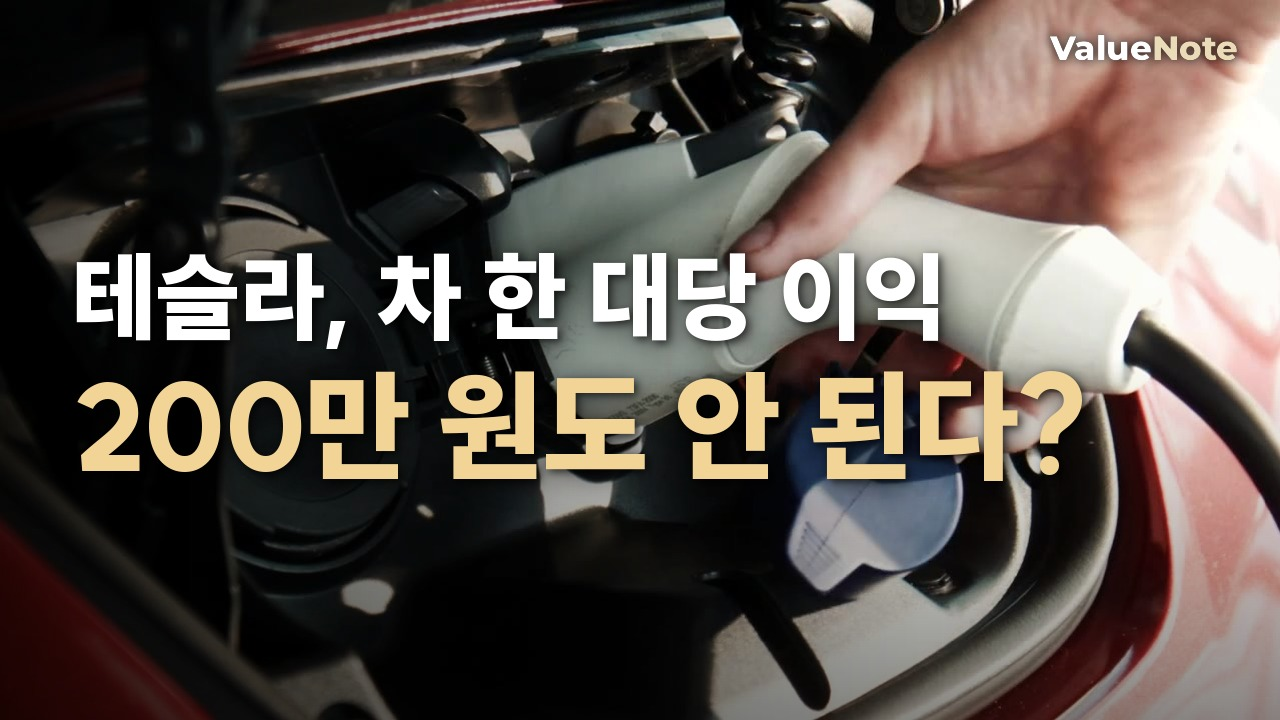
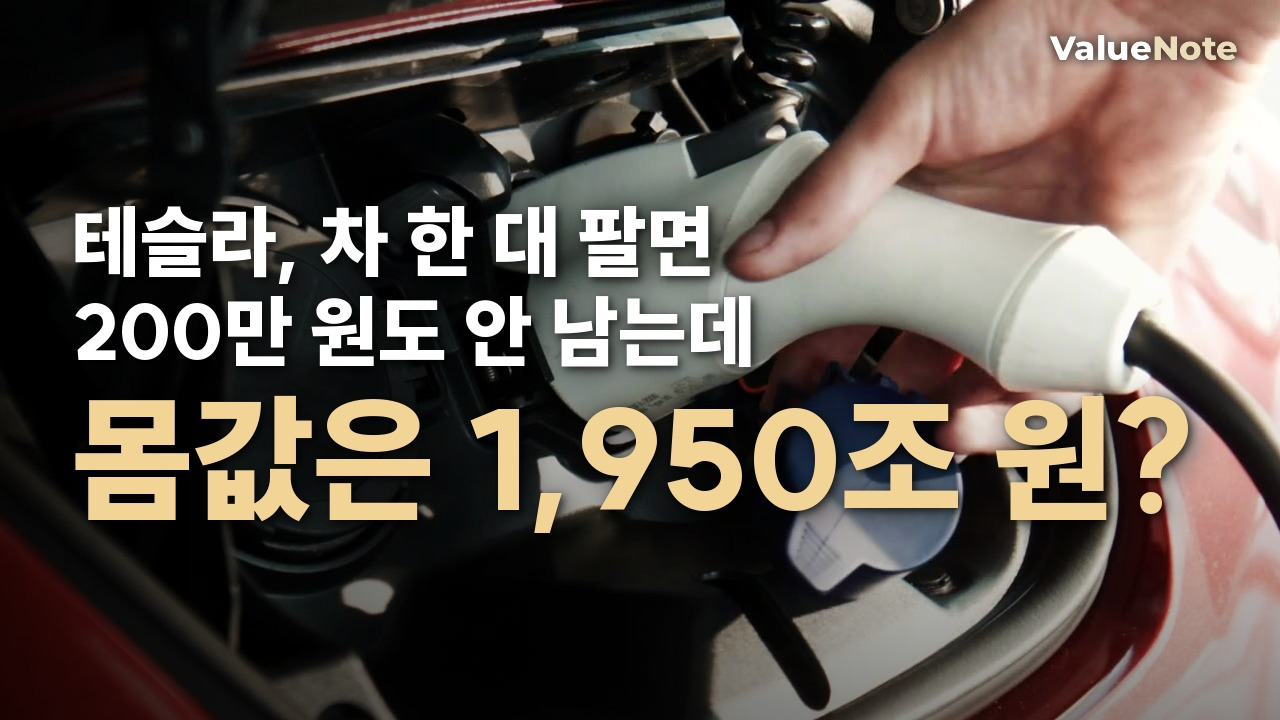
테슬라 롱폼 썸네일: '테슬라, 차 한 대 팔면 / 200만 원도 안 남는데 / 몸값은 1,950조 원?' (하이닉스와 같은 글자 크기 비율, 흰 줄 두 줄 지원) [skip ci]
Claude-Session: https://claude.ai/code/session_018zXS2w3PbRSRRZ3YsXeBVu

Changed region(s): [[0.0312, 0.275, 0.9375, 0.7333]]

diff --git a/scripts/youtube/long/render2.py b/scripts/youtube/long/render2.py
@@ -1009,7 +1009,7 @@ def make_thumb(spec, V, out):
     th = Image.alpha_composite(th, sh2); d = ImageDraw.Draw(th)
     l1, l2 = fill(tv["l1"], V), fill(tv["l2"], V); maxw = TW - 120
     f1 = F("Heavy", 112)
-    while d.textlength(l1, font=f1) > maxw: f1 = F("Heavy", f1.size - 4)
+    while max(d.textlength(r, font=f1) for r in l1.split("\n")) > maxw: f1 = F("Heavy", f1.size - 4)
     f2 = F("Heavy", 190)
     while d.textlength(l2, font=f2) > maxw: f2 = F("Heavy", f2.size - 6)
     pos = tv.get("pos", "top")   # 2026-10-22 운영자: 테두리 없이 그림자만 (예시: '얼마 벌고 얼마 쓸까'). center = 회사 로고 + 두 줄을 가운데에
@@ -1021,7 +1021,9 @@ def make_thumb(spec, V, out):
             lh = tv.get("logo_h", 100); cl = Image.open(co).convert("RGBA"); sc2 = lh / cl.height; cl = cl.resize((int(cl.width * sc2), lh), Image.LANCZOS)
             card = cl   # 투명 배경 로고는 카드 없이 사진 위에 바로 (2026-10-22 운영자)
         bdg = tv.get("badge"); fbg = F("ExtraBold", tv.get("badge_s", 38))   # 2026-10-23 운영자: '주가 전망 심층분석' 같은 작은 배지
-        hh = (card.height + 34 if card else 0) + (fbg.size + 58 if bdg else 0) + f1.size + 18 + f2.size; y0 = (TH_ - hh) // 2 - 6
+        rows1 = l1.split("\n")   # 2026-10-25: 흰 줄이 길면 두 줄로 (크기는 그대로, 하이닉스 썸네일과 같은 비율)
+        while max(ImageDraw.Draw(th).textlength(r, font=f2) for r in [l2]) > TW - 2 * LX: f2 = F("Heavy", f2.size - 4)
+        hh = (card.height + 34 if card else 0) + (fbg.size + 58 if bdg else 0) + len(rows1) * (f1.size + 12) + 6 + f2.size; y0 = (TH_ - hh) // 2 - 6
         vg = Image.new("RGBA", (TW, TH_)); gv = ImageDraw.Draw(vg)   # 가운데를 살짝 어둡게
         for r_ in range(0, 520, 4): gv.ellipse([TW / 2 - 700 + r_, TH_ / 2 - 380 + r_ * .55, TW / 2 + 700 - r_, TH_ / 2 + 380 - r_ * .55], fill=(0, 0, 0, 3))
         th = Image.alpha_composite(th, vg.filter(ImageFilter.GaussianBlur(30)))
@@ -1033,12 +1035,12 @@ def make_thumb(spec, V, out):
             dd = ImageDraw.Draw(th); bw = dd.textlength(bdg, font=fbg) + 52; bx = (TW - bw) / 2 if pos == "center" else LX; bh = fbg.size + 30
             sdb = Image.new("RGBA", (TW, TH_)); ImageDraw.Draw(sdb).rounded_rectangle([bx + 3, y0 + 5, bx + bw + 3, y0 + bh + 5], 12, fill=(0, 0, 0, 150)); th = Image.alpha_composite(th, sdb.filter(ImageFilter.GaussianBlur(6)))
             dd = ImageDraw.Draw(th); dd.rounded_rectangle([bx, y0, bx + bw, y0 + bh], 12, fill=(224, 200, 150)); dd.text((bx + 26, y0 + 10), bdg, font=fbg, fill=(11, 27, 51)); y0 += bh + 28
-        for (txt, f, col) in ((l1, f1, WHITE), (l2, f2, YEL)):
+        for (txt, f, col) in [(r, f1, WHITE) for r in rows1] + [(l2, f2, YEL)]:
             tw_ = ImageDraw.Draw(th).textlength(txt, font=f); x_ = (TW - tw_) / 2 if pos == "center" else LX
             for blur, off, alpha in ((14, 6, 160), (4, 3, 170)):
                 sd_ = Image.new("RGBA", (TW, TH_)); ImageDraw.Draw(sd_).text((x_ + off, y0 + off), txt, font=f, fill=(0, 0, 0, alpha))
                 th = Image.alpha_composite(th, sd_.filter(ImageFilter.GaussianBlur(blur)))
-            ImageDraw.Draw(th).text((x_, y0), txt, font=f, fill=col); y0 += f.size + 18
+            ImageDraw.Draw(th).text((x_, y0), txt, font=f, fill=col); y0 += f.size + (12 if f is f1 else 18)
         paste_logo(th, TW - 40, 34, 34, "dark", align="right", ko=False)   # 썸네일은 ValueNote 단독   # 2026-10-23 확정 로고 (오른쪽 위)
         th.convert("RGB").save(os.path.join(out, "thumb.jpg"), quality=92); return
     if pos == "top": y1 = 46; y2 = y1 + f1.size + 14
